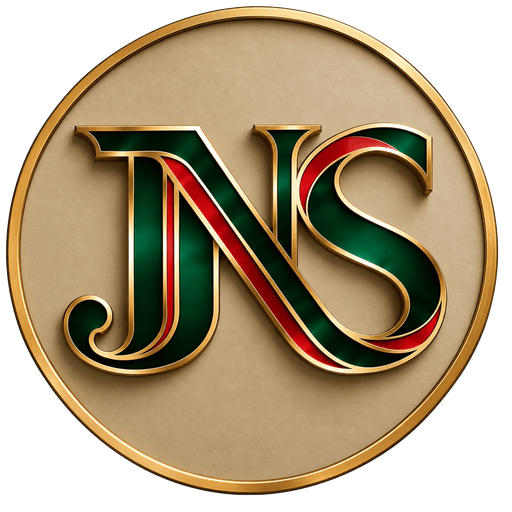
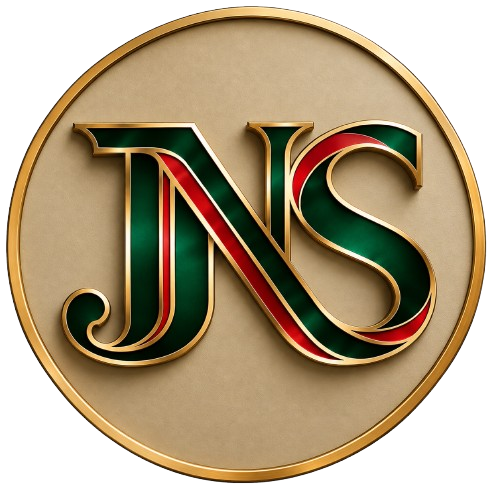
new theme

diff --git a/src/app/products/[id]/page.tsx b/src/app/products/[id]/page.tsx
@@ -117,17 +117,18 @@ async function ProductContent({ params }: { params: Promise<{ id: string }> }) {
         type="application/ld+json"
         dangerouslySetInnerHTML={{ __html: JSON.stringify(breadcrumbJsonLd) }}
       />
+      {/* Product content on dark green */}
       <div className="mx-auto max-w-4xl px-4 py-8 sm:px-6 sm:py-12">
         <Link
           href="/"
-          className="inline-flex items-center gap-1 text-sm text-brand-green-600 hover:text-brand-gold-600"
+          className="inline-flex items-center gap-1 text-sm text-brand-cream-300 hover:text-brand-gold-400 transition-colors"
         >
           &larr; კატალოგში დაბრუნება
         </Link>
 
         <div className="mt-6 grid gap-6 sm:mt-8 sm:gap-8 md:grid-cols-2 md:gap-10">
           {/* Image placeholder */}
-          <div className="aspect-[4/3] rounded-lg bg-brand-cream-100 flex items-center justify-center sm:aspect-square">
+          <div className="relative aspect-[4/3] rounded-xl bg-brand-cream-100 flex items-center justify-center sm:aspect-square shadow-md">
             <span className="text-4xl text-brand-cream-300 sm:text-5xl md:text-6xl">
               {product.category}
             </span>
@@ -135,34 +136,34 @@ async function ProductContent({ params }: { params: Promise<{ id: string }> }) {
 
           {/* Details */}
           <div>
-            <p className="text-sm font-medium text-brand-gold-600">
+            <p className="text-sm font-medium text-brand-gold-400">
               {product.category}
             </p>
-            <h1 className="mt-1 text-2xl font-bold text-brand-green-900 sm:text-3xl">
+            <h1 className="mt-1 text-2xl font-bold text-white sm:text-3xl">
               {product.name}
             </h1>
-            <p className="mt-3 text-xl font-semibold text-brand-gold-700 sm:mt-4 sm:text-2xl">
+            <p className="mt-3 text-xl font-semibold text-brand-gold-500 sm:mt-4 sm:text-2xl">
               {product.price.toLocaleString()} ₾{product.pricePerSqm && "/მ²"}
             </p>
 
             {!product.inStock && (
-              <p className="mt-2 text-sm font-medium text-brand-red-700">
+              <p className="mt-2 text-sm font-medium text-brand-red-100">
                 ამჟამად არ არის მარაგში
               </p>
             )}
 
-            <p className="mt-4 text-sm leading-relaxed text-brand-green-600 sm:mt-6 sm:text-base">
+            <p className="mt-4 text-sm leading-relaxed text-brand-cream-300 sm:mt-6 sm:text-base">
               {product.description}
             </p>
 
             <dl className="mt-6 space-y-3 text-sm sm:mt-8">
               <div className="flex gap-2">
-                <dt className="font-medium text-brand-green-500 w-20 shrink-0 sm:w-28">მასალა</dt>
-                <dd className="text-brand-green-900">{product.material}</dd>
+                <dt className="font-medium text-brand-gold-400 w-20 shrink-0 sm:w-28">მასალა</dt>
+                <dd className="text-brand-cream-200">{product.material}</dd>
               </div>
               <div className="flex gap-2">
-                <dt className="font-medium text-brand-green-500 w-20 shrink-0 sm:w-28">ზომები</dt>
-                <dd className="text-brand-green-900">
+                <dt className="font-medium text-brand-gold-400 w-20 shrink-0 sm:w-28">ზომები</dt>
+                <dd className="text-brand-cream-200">
                   {product.dimensions.width} x {product.dimensions.depth} x{" "}
                   {product.dimensions.height} სმ (ს x ღ x მ)
                 </dd>
@@ -172,7 +173,7 @@ async function ProductContent({ params }: { params: Promise<{ id: string }> }) {
             {product.inStock ? (
               <a
                 href="tel:+995555000000"
-                className="mt-6 inline-flex w-full items-center justify-center gap-2 rounded-lg bg-brand-green-700 px-6 py-3 text-sm font-medium text-white transition-colors hover:bg-brand-green-600 sm:mt-8"
+                className="mt-6 inline-flex w-full items-center justify-center gap-2 rounded-lg bg-brand-gold-500 px-6 py-3 text-sm font-medium text-brand-green-900 transition-colors hover:bg-brand-gold-600 sm:mt-8"
               >
                 <svg xmlns="http://www.w3.org/2000/svg" viewBox="0 0 24 24" fill="currentColor" className="size-4">
                   <path fillRule="evenodd" d="M1.5 4.5a3 3 0 0 1 3-3h1.372c.86 0 1.61.586 1.819 1.42l1.105 4.423a1.875 1.875 0 0 1-.694 1.955l-1.293.97c-.135.101-.164.249-.126.352a11.285 11.285 0 0 0 6.697 6.697c.103.038.25.009.352-.126l.97-1.293a1.875 1.875 0 0 1 1.955-.694l4.423 1.105c.834.209 1.42.958 1.42 1.82V19.5a3 3 0 0 1-3 3h-2.25C8.552 22.5 1.5 15.448 1.5 6.75V4.5Z" clipRule="evenodd" />
@@ -181,7 +182,7 @@ async function ProductContent({ params }: { params: Promise<{ id: string }> }) {
               </a>
             ) : (
               <button
-                className="mt-6 w-full rounded-lg bg-brand-green-700 px-6 py-3 text-sm font-medium text-white opacity-50 cursor-not-allowed sm:mt-8"
+                className="mt-6 w-full rounded-lg bg-brand-gold-500 px-6 py-3 text-sm font-medium text-brand-green-900 opacity-40 cursor-not-allowed sm:mt-8"
                 disabled
               >
                 არ არის მარაგში

diff --git a/src/components/ProductCard.tsx b/src/components/ProductCard.tsx
@@ -5,30 +5,39 @@ export default function ProductCard({ product }: { product: Product }) {
   return (
     <Link
       href={`/products/${product.id}`}
-      className="group block rounded-lg border border-brand-cream-200 bg-white overflow-hidden transition-shadow hover:shadow-lg"
+      className="group block rounded-xl bg-white overflow-hidden shadow-md transition-shadow hover:shadow-xl"
     >
-      <div className="aspect-[4/3] bg-brand-cream-100 flex items-center justify-center">
+      {/* Image area */}
+      <div className="relative aspect-[4/3] bg-brand-cream-100 flex items-center justify-center">
         <span className="text-4xl text-brand-cream-300">
           {getCategoryIcon(product.category)}
         </span>
       </div>
+
+      {/* Content area */}
       <div className="p-4">
-        <div className="flex items-start justify-between gap-2">
-          <h3 className="font-semibold text-brand-green-900 group-hover:text-brand-green-600">
-            {product.name}
-          </h3>
-          {!product.inStock && (
-            <span className="shrink-0 rounded bg-brand-red-100 px-2 py-0.5 text-xs text-brand-red-700">
-              არ არის მარაგში
-            </span>
-          )}
-        </div>
+        <h3 className="font-semibold text-brand-green-900 group-hover:text-brand-green-600">
+          {product.name}
+        </h3>
+        {!product.inStock && (
+          <span className="mt-1 inline-block rounded bg-brand-red-100 px-2 py-0.5 text-xs text-brand-red-700">
+            არ არის მარაგში
+          </span>
+        )}
         <p className="mt-1 text-sm text-brand-green-500">
           {product.material}
         </p>
-        <p className="mt-2 font-medium text-brand-gold-700">
-          {product.price.toLocaleString()} ₾{product.pricePerSqm && "/მ²"}
-        </p>
+        <div className="mt-3 flex items-center justify-between">
+          <p className="font-semibold text-brand-gold-600">
+            {product.price.toLocaleString()} ₾{product.pricePerSqm && "/მ²"}
+          </p>
+          {/* Arrow button */}
+          <span className="flex items-center justify-center size-9 rounded-full border border-brand-gold-500 text-brand-gold-500 group-hover:bg-brand-gold-500 group-hover:text-white transition-colors">
+            <svg xmlns="http://www.w3.org/2000/svg" fill="none" viewBox="0 0 24 24" strokeWidth={2} stroke="currentColor" className="size-4">
+              <path strokeLinecap="round" strokeLinejoin="round" d="M13.5 4.5 21 12m0 0-7.5 7.5M21 12H3" />
+            </svg>
+          </span>
+        </div>
       </div>
     </Link>
   );

diff --git a/src/app/layout.tsx b/src/app/layout.tsx
@@ -83,27 +83,27 @@ export default function RootLayout({ children }: LayoutProps<"/">) {
         />
       </head>
       <body className="min-h-full flex flex-col font-[family-name:var(--font-georgian)]">
-        <header className="relative border-b border-brand-cream-200 bg-white">
-          <nav className="mx-auto flex max-w-6xl items-center justify-between px-4 py-3 sm:px-6 sm:py-4">
+        <header className="relative bg-brand-green-900">
+          <nav className="mx-auto flex max-w-6xl items-center justify-between px-4 py-3 sm:px-6 sm:py-2">
             <Link
               href="/"
-              className="flex items-center gap-2 text-lg font-bold tracking-tight text-brand-green-700 sm:text-xl"
+              className="flex items-center gap-2"
             >
               <Image
                 src="/jns-logo.png"
                 alt="JNS ავეჯის ლოგო"
-                width={40}
-                height={40}
+                width={52}
+                height={52}
                 className="rounded-full"
               />
             </Link>
 
             {/* Desktop nav */}
-            <div className="hidden md:flex gap-6 text-sm font-medium text-brand-green-600">
-              <Link href="/" className="hover:text-brand-gold-600">
+            <div className="hidden md:flex gap-6 text-sm font-medium text-brand-cream-300">
+              <Link href="/" className="hover:text-brand-gold-400 transition-colors">
                 კატალოგი
               </Link>
-              <Link href="/#" className="hover:text-brand-gold-600">
+              <Link href="/#" className="hover:text-brand-gold-400 transition-colors">
                 ჩვენს შესახებ
               </Link>
               <ScrollToContact />
@@ -112,11 +112,13 @@ export default function RootLayout({ children }: LayoutProps<"/">) {
             {/* Mobile nav */}
             <MobileNav />
           </nav>
+          <div className="header-gold-line" />
         </header>
 
-        <main className="flex-1">{children}</main>
+        <main className="flex-1 bg-brand-green-900">{children}</main>
 
-        <footer id="contact" className="border-t border-brand-cream-200 bg-brand-green-900">
+        <footer id="contact" className="bg-brand-green-900">
+          <div className="header-gold-line" />
           <div className="mx-auto max-w-6xl px-4 py-8 sm:px-6 sm:py-12">
             <div className="grid gap-8 md:grid-cols-2 md:gap-10">
               {/* Contact info */}

diff --git a/src/components/ProductGrid.tsx b/src/components/ProductGrid.tsx
@@ -25,10 +25,10 @@ export default function ProductGrid({
       <div className="mt-6 flex flex-wrap justify-center gap-2 sm:mt-10">
         <Link
           href="/"
-          className={`rounded-full px-3 py-1 text-xs font-medium transition-colors sm:px-4 sm:py-1.5 sm:text-sm ${
+          className={`rounded-full px-3 py-1 text-xs font-medium transition-colors sm:px-4 sm:py-1.5 sm:text-sm border ${
             !category
-              ? "bg-brand-green-700 text-white"
-              : "bg-brand-cream-100 text-brand-green-700 hover:bg-brand-cream-200"
+              ? "bg-brand-gold-500 text-brand-green-900 border-brand-gold-500"
+              : "bg-transparent text-brand-cream-300 border-brand-cream-300 hover:border-brand-gold-500 hover:text-brand-gold-400"
           }`}
         >
           ყველა
@@ -37,10 +37,10 @@ export default function ProductGrid({
           <Link
             key={cat}
             href={`/?category=${encodeURIComponent(cat)}`}
-            className={`rounded-full px-3 py-1 text-xs font-medium transition-colors sm:px-4 sm:py-1.5 sm:text-sm ${
+            className={`rounded-full px-3 py-1 text-xs font-medium transition-colors sm:px-4 sm:py-1.5 sm:text-sm border ${
               category === cat
-                ? "bg-brand-green-700 text-white"
-                : "bg-brand-cream-100 text-brand-green-700 hover:bg-brand-cream-200"
+                ? "bg-brand-gold-500 text-brand-green-900 border-brand-gold-500"
+                : "bg-transparent text-brand-cream-300 border-brand-cream-300 hover:border-brand-gold-500 hover:text-brand-gold-400"
             }`}
           >
             {cat}
@@ -49,7 +49,7 @@ export default function ProductGrid({
       </div>
 
       {/* Product grid */}
-      <div className="mt-6 grid gap-4 sm:mt-10 sm:gap-6 sm:grid-cols-2 lg:grid-cols-3">
+      <div className="mt-6 sm:mt-10 grid gap-4 sm:gap-6 sm:grid-cols-2 lg:grid-cols-3">
         {filtered.map((product) => (
           <ProductCard key={product.id} product={product} />
         ))}

diff --git a/src/components/MobileNav.tsx b/src/components/MobileNav.tsx
@@ -10,7 +10,7 @@ export default function MobileNav() {
     <div className="md:hidden">
       <button
         onClick={() => setOpen(!open)}
-        className="flex items-center justify-center w-10 h-10 text-brand-green-700"
+        className="flex items-center justify-center w-10 h-10 text-brand-cream-300"
         aria-label={open ? "მენიუს დახურვა" : "მენიუს გახსნა"}
       >
         {open ? (
@@ -25,12 +25,12 @@ export default function MobileNav() {
       </button>
 
       {open && (
-        <div className="absolute left-0 right-0 top-full border-b border-brand-cream-200 bg-white z-50">
-          <div className="flex flex-col px-6 py-4 gap-4 text-sm font-medium text-brand-green-600">
-            <Link href="/" onClick={() => setOpen(false)} className="hover:text-brand-gold-600">
+        <div className="absolute left-0 right-0 top-full border-b border-brand-green-700 bg-brand-green-900 z-50">
+          <div className="flex flex-col px-6 py-4 gap-4 text-sm font-medium text-brand-cream-300">
+            <Link href="/" onClick={() => setOpen(false)} className="hover:text-brand-gold-400 transition-colors">
               კატალოგი
             </Link>
-            <Link href="/#" onClick={() => setOpen(false)} className="hover:text-brand-gold-600">
+            <Link href="/#" onClick={() => setOpen(false)} className="hover:text-brand-gold-400 transition-colors">
               ჩვენს შესახებ
             </Link>
             <button
@@ -38,7 +38,7 @@ export default function MobileNav() {
                 setOpen(false);
                 document.getElementById("contact")?.scrollIntoView({ behavior: "smooth" });
               }}
-              className="text-left hover:text-brand-gold-600"
+              className="text-left hover:text-brand-gold-400 transition-colors"
             >
               კონტაქტი
             </button>

diff --git a/src/app/page.tsx b/src/app/page.tsx
@@ -19,19 +19,27 @@ export default async function Home() {
   ]);
 
   return (
-    <div className="mx-auto max-w-6xl px-4 py-8 sm:px-6 sm:py-12">
-      <div className="text-center">
-        <h1 className="text-2xl font-bold tracking-tight text-brand-green-900 sm:text-3xl md:text-4xl">
-          ჩვენი კოლექცია
-        </h1>
-        <p className="mt-2 text-base text-brand-green-600 sm:mt-3 sm:text-lg">
-          შერჩეული ავეჯი ყველა ოთახისთვის
-        </p>
-      </div>
+    <div className="relative min-h-screen">
+      {/* Decorative stripe accent — triangular shape on left */}
+      <div
+        className="absolute left-0 top-0 w-16 sm:w-20 md:w-28 h-48 sm:h-64 md:h-80 z-10 decorative-stripe"
+        style={{ clipPath: "polygon(0 0, 100% 0, 0 100%)" }}
+      />
 
-      <Suspense fallback={<div className="mt-10 text-center text-brand-cream-300">იტვირთება...</div>}>
-        <ProductGrid products={products} categories={categories} />
-      </Suspense>
+      <div className="mx-auto max-w-6xl px-4 pt-10 pb-12 sm:px-6 sm:pt-14 sm:pb-16">
+        <div className="text-center">
+          <h1 className="text-2xl font-bold tracking-tight text-white sm:text-3xl md:text-4xl">
+            ჩვენი კოლექცია
+          </h1>
+          <p className="mt-2 text-base text-brand-cream-300 sm:mt-3 sm:text-lg">
+            შერჩეული ავეჯი ყველა ოთახისთვის
+          </p>
+        </div>
+
+        <Suspense fallback={<div className="mt-10 text-center text-brand-cream-300">იტვირთება...</div>}>
+          <ProductGrid products={products} categories={categories} />
+        </Suspense>
+      </div>
     </div>
   );
 }

diff --git a/src/app/not-found.tsx b/src/app/not-found.tsx
@@ -2,20 +2,22 @@ import Link from "next/link";
 
 export default function NotFound() {
   return (
-    <div className="mx-auto max-w-4xl px-4 py-16 text-center sm:px-6 sm:py-24">
-      <h1 className="text-5xl font-bold text-brand-green-900 sm:text-6xl">404</h1>
-      <p className="mt-4 text-lg text-brand-green-600 sm:text-xl">
-        გვერდი ვერ მოიძებნა
-      </p>
-      <p className="mt-2 text-brand-green-500">
-        სამწუხაროდ, თქვენს მიერ მოთხოვნილი გვერდი არ არსებობს.
-      </p>
-      <Link
-        href="/"
-        className="mt-8 inline-block rounded-lg bg-brand-green-700 px-6 py-3 text-sm font-medium text-white transition-colors hover:bg-brand-green-600"
-      >
-        კატალოგში დაბრუნება
-      </Link>
+    <div className="bg-brand-green-900 flex items-center justify-center min-h-[60vh]">
+      <div className="px-4 py-16 text-center sm:px-6 sm:py-24">
+        <h1 className="text-5xl font-bold text-brand-gold-500 sm:text-6xl">404</h1>
+        <p className="mt-4 text-lg text-white sm:text-xl">
+          გვერდი ვერ მოიძებნა
+        </p>
+        <p className="mt-2 text-brand-cream-300">
+          სამწუხაროდ, თქვენს მიერ მოთხოვნილი გვერდი არ არსებობს.
+        </p>
+        <Link
+          href="/"
+          className="mt-8 inline-block rounded-lg bg-brand-gold-500 px-6 py-3 text-sm font-medium text-brand-green-900 transition-colors hover:bg-brand-gold-600"
+        >
+          კატალოგში დაბრუნება
+        </Link>
+      </div>
     </div>
   );
 }

diff --git a/src/app/globals.css b/src/app/globals.css
@@ -40,13 +40,33 @@ body {
   --color-brand-red-600: #a52236;
   --color-brand-red-100: #f5dde1;
 
+  --color-brand-green-800: #174d30;
+
+  --color-brand-cream-50: #fdf9f0;
   --color-brand-cream-100: #f5f0e6;
   --color-brand-cream-200: #e8dfd0;
   --color-brand-cream-300: #d4c4a0;
+
+  --color-brand-card-border: #e8dfd0;
 }
 
 body {
   background: var(--background);
   color: var(--foreground);
   font-family: Arial, Helvetica, sans-serif;
+}
+
+.decorative-stripe {
+  background: repeating-linear-gradient(
+    -55deg,
+    var(--color-brand-red-700),
+    var(--color-brand-red-700) 8px,
+    var(--color-brand-gold-500) 8px,
+    var(--color-brand-gold-500) 16px
+  );
+}
+
+.header-gold-line {
+  height: 3px;
+  background: var(--color-brand-gold-500);
 }

diff --git a/src/components/ScrollToContact.tsx b/src/components/ScrollToContact.tsx
@@ -6,7 +6,7 @@ export default function ScrollToContact() {
       onClick={() => {
         document.getElementById("contact")?.scrollIntoView({ behavior: "smooth" });
       }}
-      className="hover:text-brand-gold-600"
+      className="hover:text-brand-gold-400 transition-colors"
     >
       კონტაქტი
     </button>

diff --git a/src/app/manifest.ts b/src/app/manifest.ts
@@ -12,11 +12,6 @@ export default function manifest(): MetadataRoute.Manifest {
     theme_color: "#1a5c38",
     icons: [
       {
-        src: "/icon-192.png",
-        sizes: "192x192",
-        type: "image/png",
-      },
-      {
         src: "/icon-512.png",
         sizes: "512x512",
         type: "image/png",
